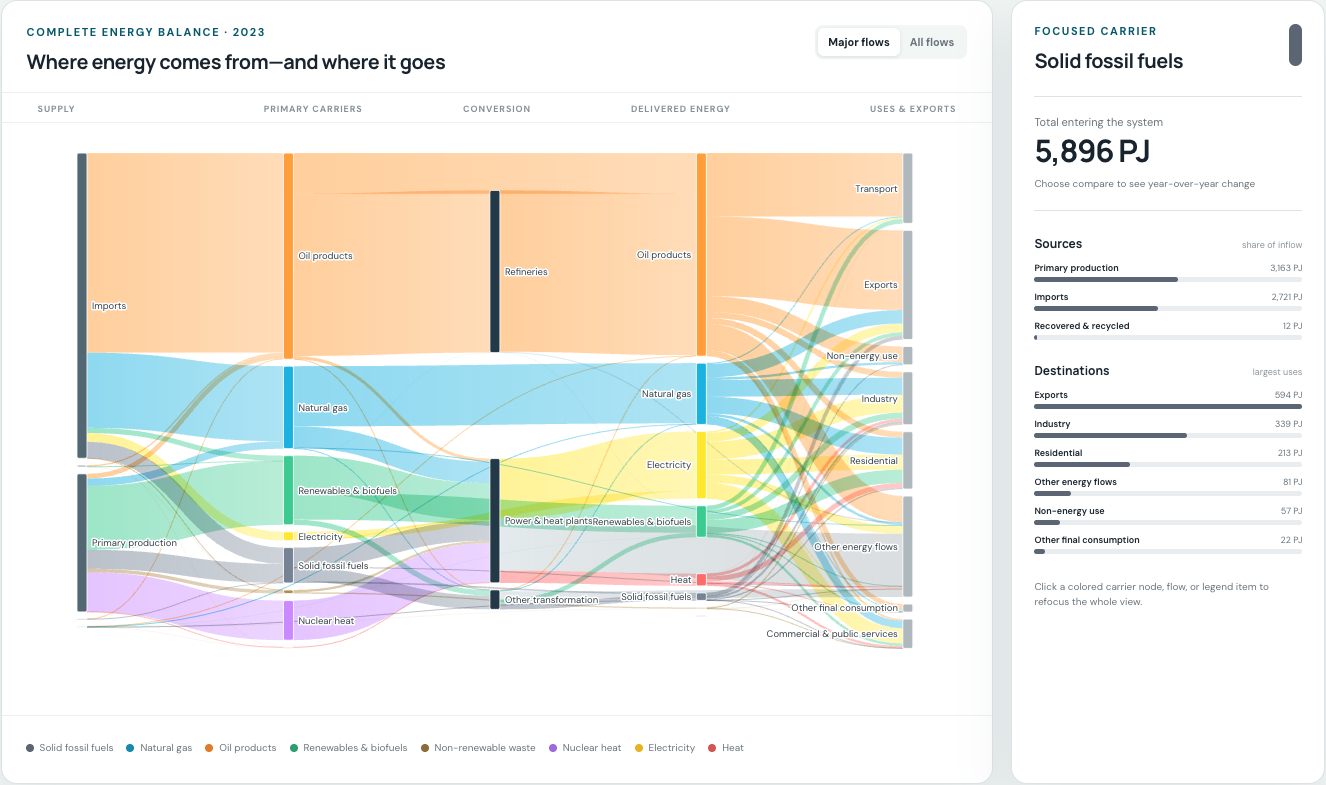
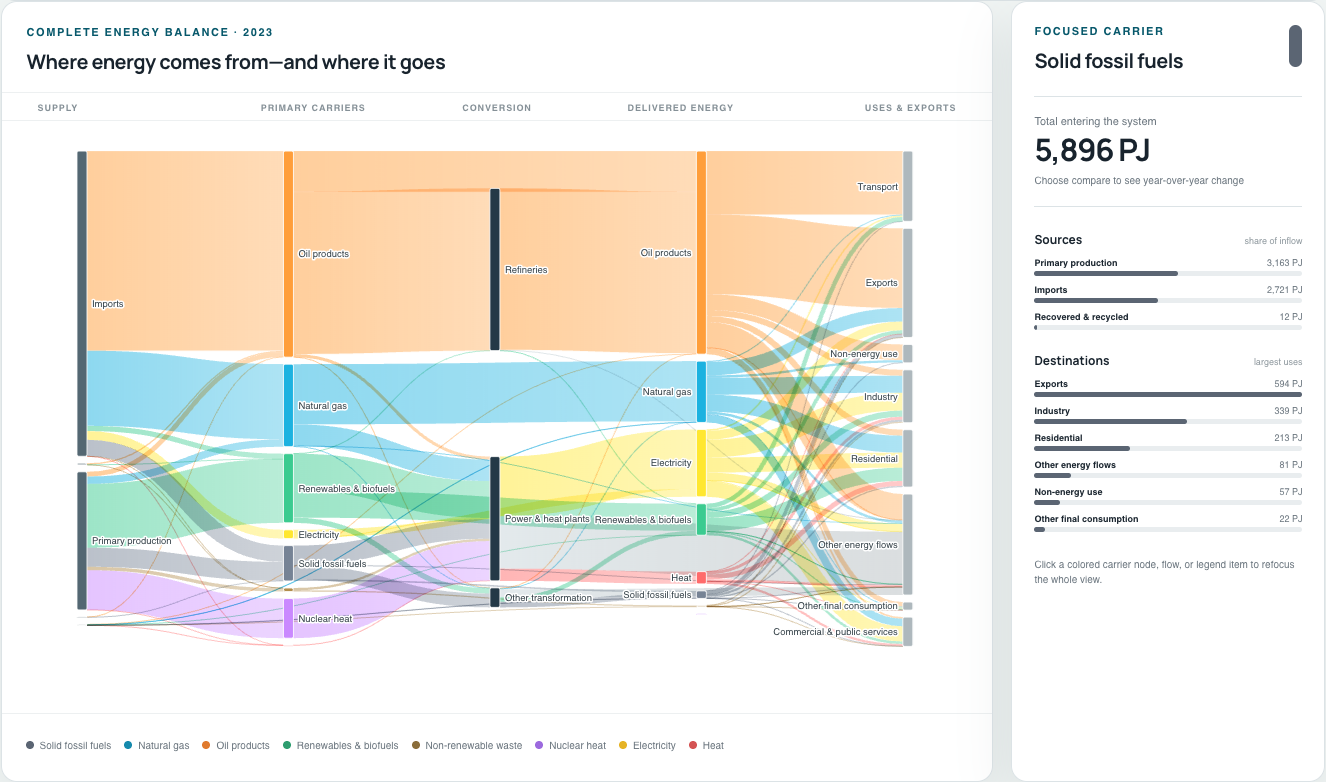
Show all flows and align redesign rationale

diff --git a/visualization-critique-redesign/index.html b/visualization-critique-redesign/index.html
@@ -114,10 +114,6 @@
             <p class="eyebrow">Complete energy balance · <span id="chart-year">2023</span></p>
             <h2 id="chart-title">Where energy comes from—and where it goes</h2>
           </div>
-          <div class="segmented" role="group" aria-label="Flow visibility">
-            <button class="is-active" data-flow-mode="major" type="button">Major flows</button>
-            <button data-flow-mode="all" type="button">All flows</button>
-          </div>
         </div>
         <div class="stage-headings" aria-hidden="true">
           <span>Supply</span><span>Primary carriers</span><span>Conversion</span><span>Delivered energy</span><span>Uses & exports</span>
@@ -166,7 +162,7 @@
       <h2 id="rationale-title">Redesign Rationale</h2>
       <div class="rationale-block">
         <h3>Decision 1 — Stronger filtering and highlighting</h3>
-        <p>To improve path tracing, the redesign adds Major Flows and All Flows modes and strengthens the visual emphasis of selected nodes, links, and energy carriers. Colors are brighter and more saturated, while node opacity is increased for better visibility. Hovering over a flow immediately highlights the related pathway while unrelated flows fade into the background. Transformation labels are also made clearer, reducing clutter and making individual energy paths easier to follow.</p>
+        <p>To improve path tracing, the redesign uses clear carrier colors, full-opacity nodes, and stronger interactive emphasis. Hovering over a ribbon highlights that individual flow and reveals its source, destination, and exact value. Clicking a flow, node, or legend item keeps the related carrier pathway highlighted while unrelated paths fade into the background. White outlines around labels improve readability in dense transformation areas.</p>
       </div>
       <div class="rationale-block">
         <h3>Decision 2 — More direct quantitative comparison</h3>
@@ -174,13 +170,13 @@
       </div>
       <div class="rationale-block">
         <h3>Decision 3 — Better temporal comparison</h3>
-        <p>The redesign adds a 2019–2023 year slider, playback controls, a Compare with previous year option, and a same-scale-across-years setting. Users can move through the timeline continuously instead of relying on memory. When comparison is enabled, the right-side panel shows current and previous-year values for either the overall system or a selected carrier. These features make temporal increases and decreases easier to identify.</p>
+        <p>The redesign adds a 2019–2023 year slider, playback controls, a Compare with previous year option, and a same-scale-across-years setting. Users can move through the timeline continuously instead of relying on memory. When comparison is enabled, the right-side panel reports the focused carrier’s absolute and percentage change from the previous year and lists its largest destination changes. These features make temporal increases and decreases easier to identify.</p>
       </div>
     </section>
 
     <section class="comparison-section" aria-labelledby="comparison-title">
       <h2 id="comparison-title">Original vs. Redesign</h2>
-      <p>Compared with the original, the redesign shifts the emphasis from simply viewing the overall energy system to supporting more focused comparison and exploration. Users can more easily distinguish individual pathways, compare where energy comes from and where it goes, and recognize changes over time without relying as much on visual memory.</p>
+      <p>Compared with the original, the redesign shifts the emphasis from simply viewing the overall energy system to supporting more focused comparison and exploration. Users can more easily distinguish individual pathways, compare where energy comes from and where it goes, and recognize changes over time without relying as much on visual memory. A geography selector also supports exploration of the EU-27 aggregate and eight European countries.</p>
       <p>The main trade-off is increased interface complexity. The additional detail panel and comparison controls require more screen space and may take longer for first-time users to learn. The redesign therefore improves analytical tasks, but is slightly less simple than the original overview-oriented design.</p>
     </section>
 

diff --git a/visualization-critique-redesign/js/app.js b/visualization-critique-redesign/js/app.js
@@ -1,6 +1,6 @@
 import { compareCarrier, flowOpacity, formatEnergy, isDestinationKind, nextYear, playbackYears, selectCountry, yearsForCountry } from './model.mjs';
 
-const state = { data: null, country: 'EU27_2020', year: 2023, selectedCarrier: null, majorOnly: true, playing: false };
+const state = { data: null, country: 'EU27_2020', year: 2023, selectedCarrier: null, playing: false };
 const labels = new Map();
 let playTimer = null;
 
@@ -46,11 +46,6 @@ function configureControls() {
   el('stable-scale').addEventListener('change', render);
   el('compare-years').addEventListener('change', renderDetails);
   el('clear-focus').addEventListener('click', () => selectCarrier(null));
-  document.querySelectorAll('[data-flow-mode]').forEach((button) => button.addEventListener('click', () => {
-    state.majorOnly = button.dataset.flowMode === 'major';
-    document.querySelectorAll('[data-flow-mode]').forEach((item) => item.classList.toggle('is-active', item === button));
-    updateLinkStyles();
-  }));
 }
 
 function setCountry(countryId) {
@@ -190,7 +185,7 @@ function renderSankey() {
 function updateLinkStyles() {
   svg.selectAll('.link').style('opacity', function() {
     const link = { carrier: this.dataset.carrier, value: Number(this.dataset.value) };
-    return flowOpacity(link, state.selectedCarrier, state.majorOnly);
+    return flowOpacity(link, state.selectedCarrier, false);
   });
 }
 

diff --git a/visualization-critique-redesign/css/styles.css b/visualization-critique-redesign/css/styles.css
@@ -80,9 +80,6 @@ select { width: 100%; height: 38px; padding: 0 34px 0 11px; border: 1px solid va
 .chart-card { min-width: 0; overflow: hidden; }
 .chart-card__head { display: flex; justify-content: space-between; gap: 24px; align-items: start; padding: 24px 25px 17px; }
 .chart-card h2, .detail-panel h2 { margin: 0; font-size: 20px; letter-spacing: -.025em; }
-.segmented { display: flex; padding: 3px; border-radius: 8px; background: var(--wash); }
-.segmented button { padding: 7px 10px; border: 0; border-radius: 6px; background: transparent; color: var(--muted); font-size: 11px; font-weight: 700; cursor: pointer; }
-.segmented button.is-active { background: white; color: var(--ink); box-shadow: 0 1px 4px rgba(0,0,0,.1); }
 .stage-headings { display: grid; grid-template-columns: repeat(5,1fr); padding: 10px 36px 7px; border-block: 1px solid #edf0f1; color: #859097; font-size: 9px; font-weight: 700; letter-spacing: .1em; text-transform: uppercase; }
 .stage-headings span:nth-child(2), .stage-headings span:nth-child(3), .stage-headings span:nth-child(4) { text-align: center; }
 .stage-headings span:last-child { text-align: right; }
